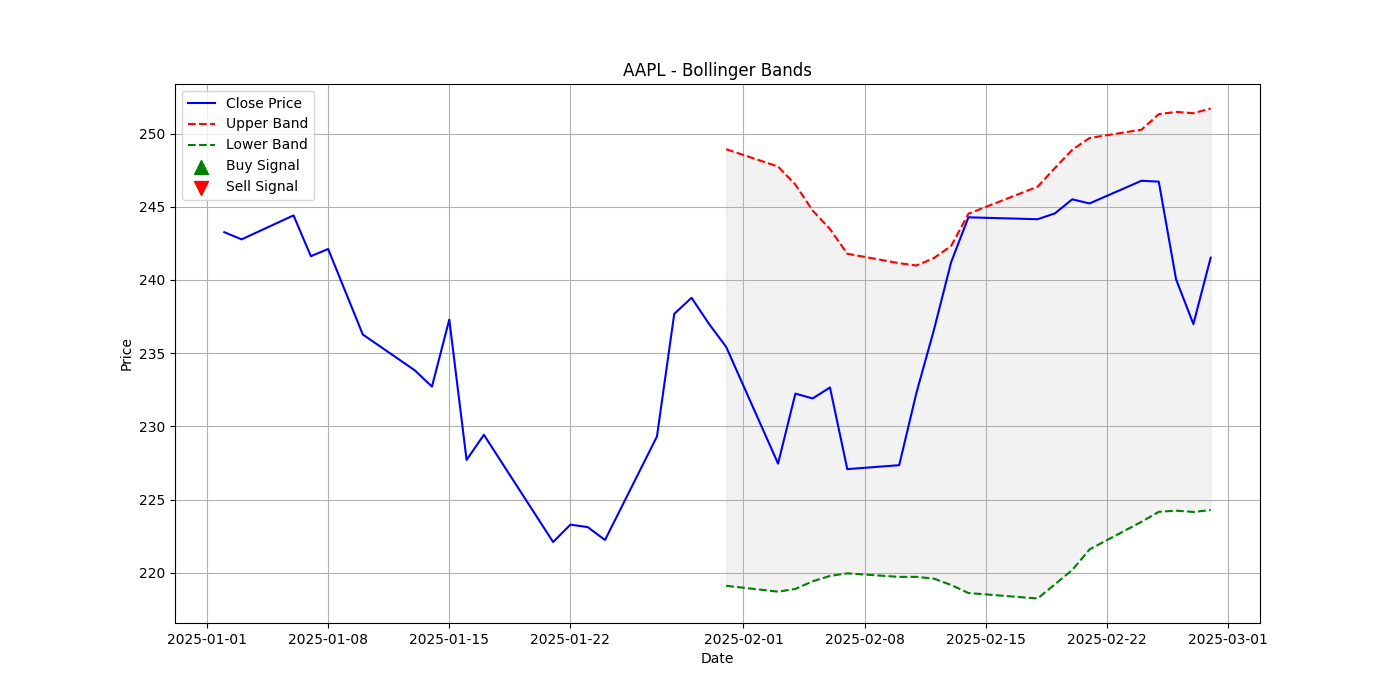
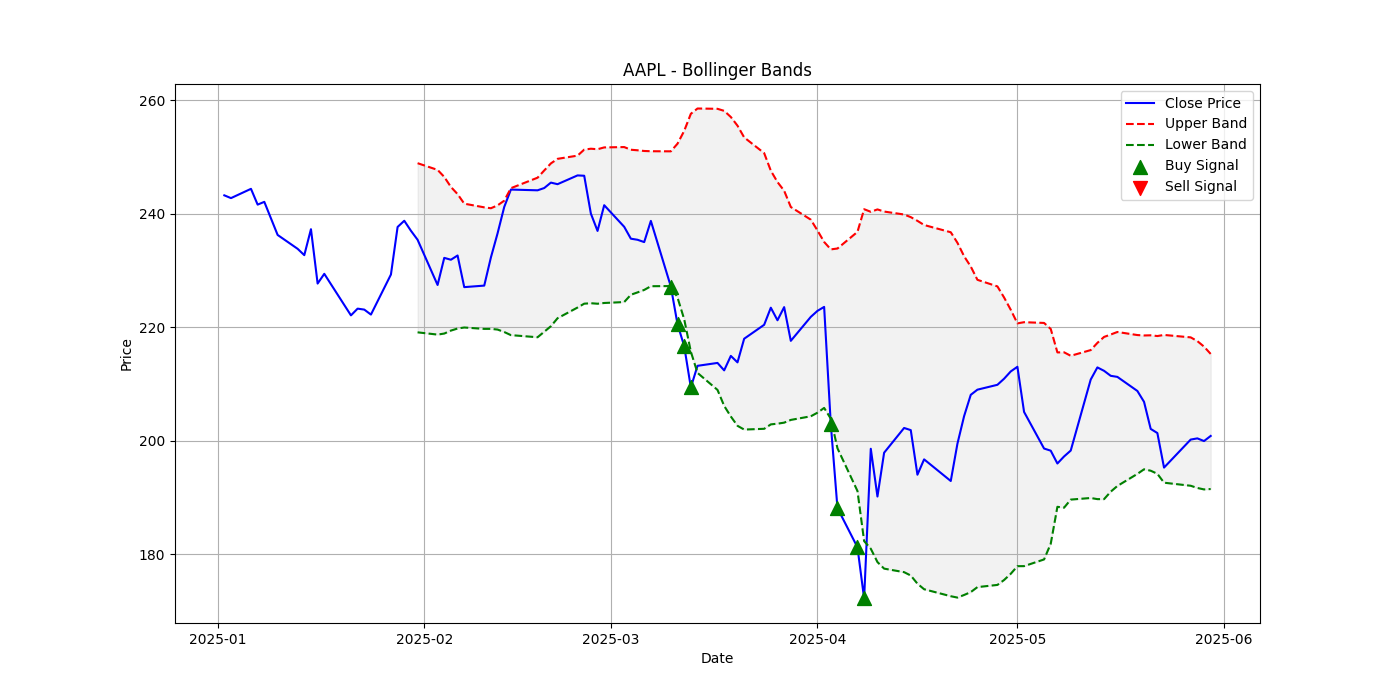
test

diff --git a/portfolio-management/scripts/technical_analysis.py b/portfolio-management/scripts/technical_analysis.py
@@ -5,10 +5,20 @@ import matplotlib.pyplot as plt
 import mplfinance as mpf
 
 
-def descargar_datos(ticker, start="2025-01-01", end="2025-03-01"):
-    """Descarga datos históricos de Yahoo Finance"""
-    print(f"Descargando datos para {ticker} desde {start} hasta {end}...")
-    datos = yf.download(ticker, start=start, end=end)
+def descargar_datos(ticker='AAPL', interval='daily', start=None, end=None):
+    """Descarga datos históricos de Yahoo Finance según el intervalo especificado."""
+    print(f"Descargando datos para {ticker} con intervalo {interval}...")
+    if start is None:
+        start = pd.Timestamp.today() - pd.Timedelta(days=1)
+    if end is None:
+        end = pd.Timestamp.today()
+    
+    # Map the interval to yfinance's interval format
+    yf_interval = {'daily': '1d', 'weekly': '1wk', 'monthly': '1mo'}.get(interval)
+    if yf_interval is None:
+        raise ValueError("Intervalo no soportado. Usa 'daily', 'weekly' o 'monthly'.")
+
+    datos = yf.download(ticker, start=start, end=end, interval=yf_interval)
     datos = datos.reset_index()  # Reset index to ensure 'Date' is a column
     
     # Flatten MultiIndex if present
@@ -20,6 +30,7 @@ def descargar_datos(ticker, start="2025-01-01", end="2025-03-01"):
     
     print("Datos descargados correctamente.")
     print(datos.head())  # Print the first few rows to verify
+    
     return datos
 
 def calcular_sma(df, period=20):
@@ -319,9 +330,14 @@ def plot_candlestick_and_bollinger(df, ticker):
     plt.tight_layout()
     plt.savefig(f'/home/marcos/Escritorio/mhp/quantitative-analysis-finance/portfolio-management/visualizations/{ticker}_candlestick_bollinger_plot.png')  # Save the combined plot
 
+# Call the function with user-specified parameters
+ticker = 'AAPL'  # You can change this to any ticker you want
+start_date = input("Ingrese la fecha de inicio (YYYY-MM-DD): ")
+end_date = input("Ingrese la fecha de fin (YYYY-MM-DD): ")
+interval = input("Ingrese el intervalo de datos ('daily', 'weekly', 'monthly'): ")
+datos = descargar_datos(ticker, start=start_date, end=end_date, interval=interval)
+
 # Example usage
-ticker = "AAPL"
-datos = descargar_datos(ticker)
 calcular_sma(datos)
 plot_sma(datos, ticker)
 calcular_rsi(datos)
@@ -337,3 +353,5 @@ plot_candlestick_and_momentum(datos, ticker)
 plot_candlestick_and_rsi(datos, ticker)
 plot_candlestick_and_macd(datos, ticker)
 plot_candlestick_and_bollinger(datos, ticker)
+    
+
